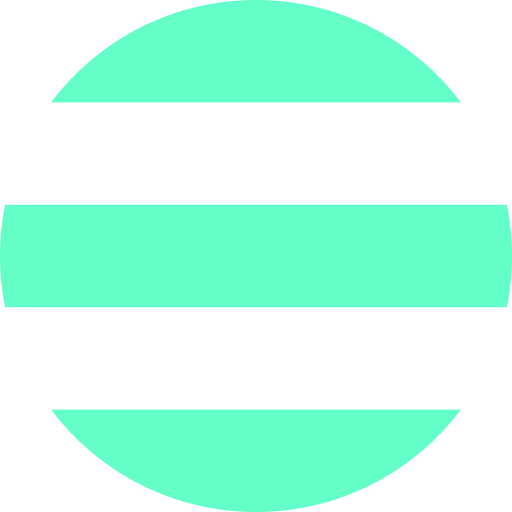
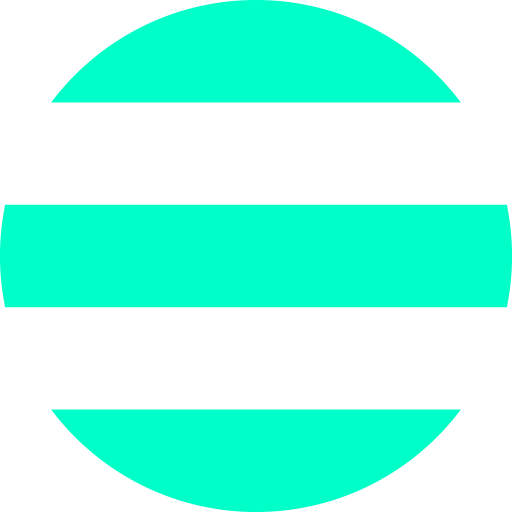
colorFix

diff --git a/PixelArt/index.html b/PixelArt/index.html
@@ -47,14 +47,14 @@
                     <img src="images/new.svg" id="newA" alt="Створити" class="icon" active="false"/>
                 </div>
                 <div id="tText">
-                    <div style="color: var(--gray); display: inline-block">P</div>
+                    <div style="color: var(--blue); display: inline-block">P</div>
                     <div style="color: var(--green); display: inline-block">i</div>
                     <div style="color: var(--red); display: inline-block">x</div>
                     <div style="color: var(--blue); display: inline-block">e</div>
-                    <div style="color: var(--red); display: inline-block">l</div>
-                    <div style="color: var(--gray); display: inline-block">A</div>
-                    <div style="color: var(--green); display: inline-block">r</div>
-                    <div style="color: var(--blue); display: inline-block">t</div>
+                    <div style="color: var(--green); display: inline-block">l</div>
+                    <div style="color: var(--red); display: inline-block">A</div>
+                    <div style="color: var(--blue); display: inline-block">r</div>
+                    <div style="color: var(--green); display: inline-block">t</div>
                 <!-- 2.0--></div>
                 <div class="iconB">
                     <img src="images/icon160.svg" alt="Логотип" class="icon r"/>
@@ -67,7 +67,7 @@
         <div id="settingsBlock" class="content settings">
             <div id="createM">
                 <div id="settingsItems">
-                    <div id="framesCountS" class="sItem gray">
+                    <div id="framesCountS" class="sItem">
                         <div class="sText">Кількість кадрів</div>
                         <div class="counter"> 
                             <div class="counterB" onclick="sButtonClick('framesCountS', '-', 2, 10, 1, 'framesC')">&minus;</div>
@@ -79,11 +79,11 @@
                         <div class="sText">Розмір кадру</div>
                         <div class="counter"> 
                             <div class="counterB" onclick="sButtonClick('plotPlatesS', '-', 2, 10, 1, 'plotPlates')">&minus;</div>
-                            <div class="counterT gray">2</div>
+                            <div class="counterT">2</div>
                             <div class="counterB plus" onclick="sButtonClick('plotPlatesS', '+', 2, 10, 1, 'plotPlates')">+</div>
                         </div>
                     </div>
-                    <div id="borderRadiudS" class="sItem gray">
+                    <div id="borderRadiudS" class="sItem">
                         <div class="sText">Скруглення плиток</div>
                         <div class="counter"> 
                             <div class="counterB" onclick="sButtonClick('borderRadiudS', '-', 0, 50, 5, 'customS.bRadius')">&minus;</div>
@@ -95,11 +95,11 @@
                         <div class="sText">Час показу кадру</div>
                         <div class="counter"> 
                             <div class="counterB" onclick="sButtonClick('fDispTimeS', '-', 100, 1000, 50, 'fDispTime')">&minus;</div>
-                            <div class="counterT gray">100</div>
+                            <div class="counterT">100</div>
                             <div class="counterB plus" onclick="sButtonClick('fDispTimeS', '+', 100, 1000, 50, 'fDispTime')">+</div>
                         </div>
                     </div>
-                    <div id="replayS" class="sItem gray">
+                    <div id="replayS" class="sItem">
                         <div class="sText">Показ кадрів</div>
                         <div class="counter">
                             <div class="counterT switch" onclick="switchB()">1 - 2 - 3 - 2 - ...</div>

diff --git a/PixelArt/css/main.css b/PixelArt/css/main.css
@@ -39,13 +39,13 @@
 
 body {
     /*var-s*/
-    --light-gray: rgb(220, 220, 220);
-    --gray: rgb(120, 120, 120);
-    --blue: rgb(80, 180, 230); 
+    --light-gray: rgb(235, 235, 235);
+    --gray: rgb(150, 150, 150);
+    --blue: rgb(0, 180, 230); 
     --red: rgb(255, 100, 120);
-    --green: rgb(100, 255, 200);
+    --green: rgb(0, 255, 200);
     --yellow: rgb(244, 255, 142);
-    --grayShadow: 0px 0px 40px rgba(120, 120, 120, .5);
+    --grayShadow: 0px 0px 40px rgba(150, 150, 150, .4);
 
     margin: 0 auto;
     text-align: center;
@@ -75,11 +75,11 @@ body {
     height: 12%;
     width: 100%;
     font-weight: 400;
-    font-size: 6.2vh;
+    font-size: 6.5vh;
     line-height: 12vh;
     font-family: Arial;
     background-color: white;
-    color: rgb(130, 130, 130);
+    color: var(--gray);
     box-shadow: var(--grayShadow);
 }
 
@@ -208,6 +208,6 @@ body {
 }
 
 .gray {
-    background-color: rgb(200, 200, 200);
+    background-color: var(--light-gray);
     color: white
 }

diff --git a/PixelArt/js/libs/main.lib.js b/PixelArt/js/libs/main.lib.js
@@ -4,12 +4,12 @@
 var winW, winH, err
 var colorP = {
     a: 'rgb(255, 255, 255)', //white
-    b: 'rgb(120, 120, 120)', //gray
-    c: 'rgb(80, 180, 230)', //blue
+    b: 'rgb(150, 150, 150)', //gray
+    c: 'rgb(0, 180, 230)', //blue
     d: 'rgb(255, 100, 120)', //red
-    e: 'rgb(100, 255, 200)', //green
+    e: 'rgb(0, 255, 200)', //green
     f: 'rgb(244, 255, 142)', //yellow
-    g: 'rgb(220, 220, 220)', //light-gray
+    g: 'rgb(235, 235, 235)', //light-gray
 }
 
 var anim = {framesC: 2, fDispTime: 100, plotPlates: 2, replay: 1, customS: {bRadius: 0}, frames: []}
